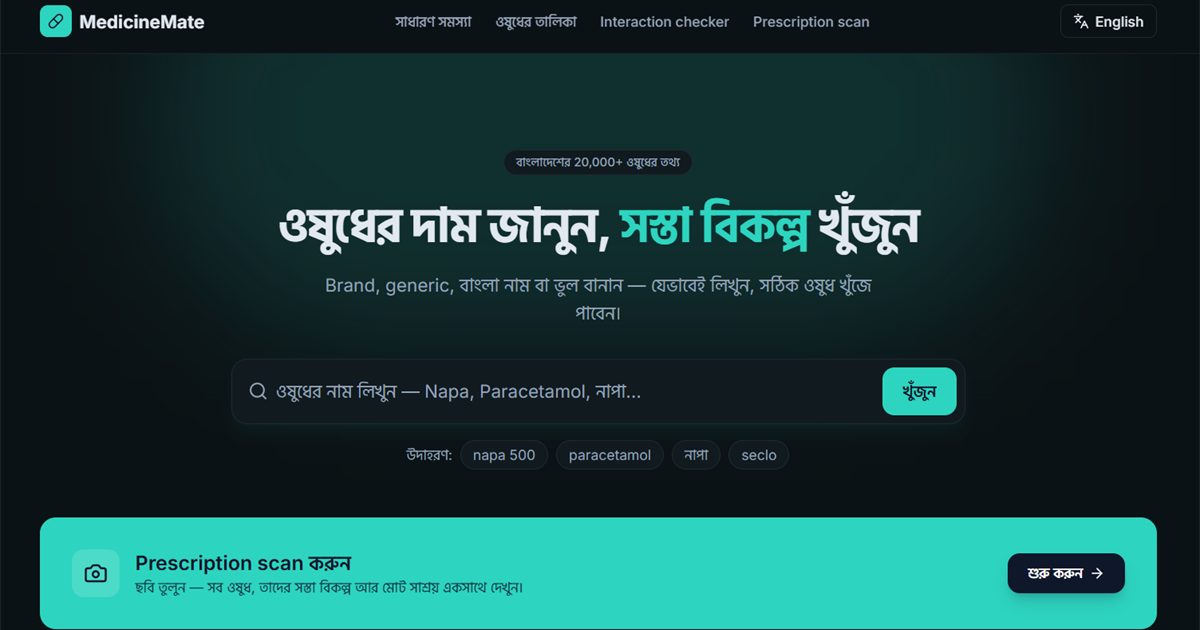
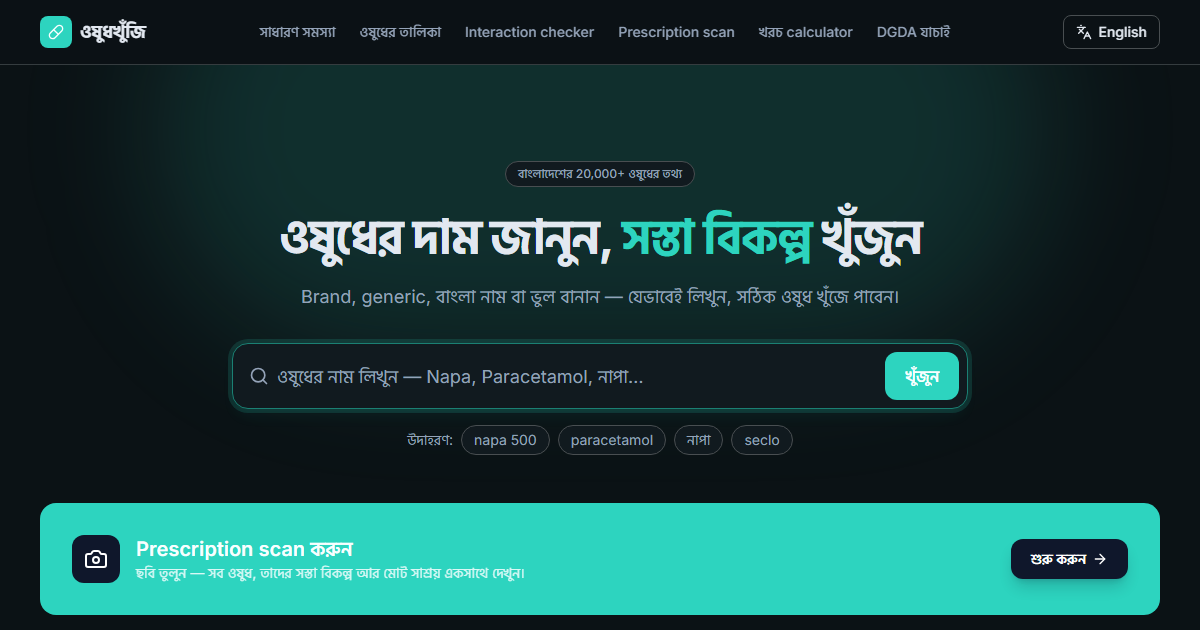
fix: refresh OG share image with new OshudKhuji brand
New 1200x630 screenshot of /bn (header shows ওষুধখুঁজি) and cache-bust
the image URL (?v=2) so LinkedIn/Facebook fetch the new preview.

diff --git a/lib/seo.ts b/lib/seo.ts
@@ -33,7 +33,8 @@ export function alternatesFor(lang: Locale, path = ""): NonNullable<Metadata["al
  * Share image for every page (WhatsApp, Facebook, X, LinkedIn): public/og-image.png, 1200x630, <300KB.
  * Source screenshot: public/ogImage.png (resized/cropped). Replace og-image.png to change it.
  */
-export const OG_IMAGE = { url: "/og-image.png", width: 1200, height: 630, alt: SITE_NAME, type: "image/png" };
+export const OG_IMAGE = { url: "/og-image.png?v=2", // bump ?v= when the image changes (LinkedIn/Facebook cache by URL)
+   width: 1200, height: 630, alt: SITE_NAME, type: "image/png" };
 
 /**
  * Google Search Console "HTML tag" verification code from env GOOGLE_SITE_VERIFICATION_KEY.

diff --git a/CLAUDE.md b/CLAUDE.md
@@ -29,7 +29,7 @@ Next.js 16.4 (App Router, Turbopack, `cacheComponents` ON), React 19, TS strict,
 - Header nav shows at `xl`; below that `components/layout/MobileMenu.tsx` (hamburger). Tailwind 4 has no button pointer cursor → restored globally in `globals.css`.
 - No login/account for now (user decision): header has no Login button, `/account` removed. Add back with Auth.js when needed.
 - Home `/[lang]`: hero search → `StatsBar` → scan CTA → `SavingsShowcase` (most expensive vs cheapest per-unit brand of the same generic+strength+form) → condition chips → `PopularGrid` → `InteractionTeaser` → `HowItWorks` → features → `Faq` → disclaimer. Sections in `components/home/HomeSections.tsx`; data `getHomeData()` (`server/services/home.service.ts`, "use cache" tags `medicines`/`home`; `FEATURED` slug list there — verify slugs exist when editing).
-- SEO (all public pages are server-rendered; check with Googlebot UA): every indexable page's `generateMetadata` returns `pageMeta(lang, "/path", {title, description})` from `lib/seo.ts` (canonical without query params, hreflang bn/en/x-default→bn, Open Graph + Twitter with `OG_IMAGE` = `public/og-image.png` 1200x630 <300KB, resized from the user's screenshot `public/ogImage.png`; also set as layout default). Layout sets only site defaults + `metadataBase` (never alternates). Personal/thin pages: `robots: noindex` (search, scan result). JSON-LD via `components/seo/JsonLd.tsx` (escapes `<`): home WebSite+SearchAction+Organization+FAQPage, medicine Drug+BreadcrumbList, condition MedicalWebPage+BreadcrumbList. Sitemaps are plain route handlers (NOT `app/sitemap.ts` — that reserves `/sitemap.xml` and conflicts): `app/sitemap.xml/route.ts` = index (submit this to Search Console) → `app/sitemap/[file]/route.ts` serves `/sitemap/0.xml` (static + conditions) and `/sitemap/1.xml` (ONLY top 100 medicines — user decision; rest stay indexable via internal links: `topMedicineSlugs(limit)` = top generics by `brandCount`, one each = most common strength+form, cheapest priced brand), XML with bn/en/x-default `xhtml:link` (builders in `server/services/sitemap.ts`, data `seo.service.ts`). `app/robots.ts` lists index + parts. New public page → add to `STATIC_PATHS` in `server/services/sitemap.ts`. Google verification: env `GOOGLE_SITE_VERIFICATION_KEY` (code or full tag) → layout `verification.google`. Icons: `app/icon.svg` (favicon), `app/favicon.ico` (16/32/48), `app/apple-icon.tsx` (180px), `app/manifest.ts`; extension-less metadata routes (e.g. `apple-icon`) must be excluded in `proxy.ts` matcher or they redirect to `/bn/...` and 404.
+- SEO (all public pages are server-rendered; check with Googlebot UA): every indexable page's `generateMetadata` returns `pageMeta(lang, "/path", {title, description})` from `lib/seo.ts` (canonical without query params, hreflang bn/en/x-default→bn, Open Graph + Twitter with `OG_IMAGE` = `public/og-image.png` 1200x630 <300KB, = headless-Edge screenshot of `/bn` at 1440x756 cropped x120..1320 (redo after header/brand changes, then bump `?v=` in `OG_IMAGE`); also set as layout default). Layout sets only site defaults + `metadataBase` (never alternates). Personal/thin pages: `robots: noindex` (search, scan result). JSON-LD via `components/seo/JsonLd.tsx` (escapes `<`): home WebSite+SearchAction+Organization+FAQPage, medicine Drug+BreadcrumbList, condition MedicalWebPage+BreadcrumbList. Sitemaps are plain route handlers (NOT `app/sitemap.ts` — that reserves `/sitemap.xml` and conflicts): `app/sitemap.xml/route.ts` = index (submit this to Search Console) → `app/sitemap/[file]/route.ts` serves `/sitemap/0.xml` (static + conditions) and `/sitemap/1.xml` (ONLY top 100 medicines — user decision; rest stay indexable via internal links: `topMedicineSlugs(limit)` = top generics by `brandCount`, one each = most common strength+form, cheapest priced brand), XML with bn/en/x-default `xhtml:link` (builders in `server/services/sitemap.ts`, data `seo.service.ts`). `app/robots.ts` lists index + parts. New public page → add to `STATIC_PATHS` in `server/services/sitemap.ts`. Google verification: env `GOOGLE_SITE_VERIFICATION_KEY` (code or full tag) → layout `verification.google`. Icons: `app/icon.svg` (favicon), `app/favicon.ico` (16/32/48), `app/apple-icon.tsx` (180px), `app/manifest.ts`; extension-less metadata routes (e.g. `apple-icon`) must be excluded in `proxy.ts` matcher or they redirect to `/bn/...` and 404.
 - Pages: `/[lang]/medicines` (`view=all|brand`, `q`, `type`, `sort`, `page` GET params → `medicineListQuery`; build links with `listHref()` from `lib/medicineListUrl.ts`). Filters auto-apply (`components/medicine/MedicineFilters.tsx`, client, inside the page's Suspense: selects on change, search debounced 400ms, `router.replace`; no submit button). `view=all` → `listMedicines` table (one row per strength/form). `view=brand` → `listBrands` (`"use cache"` tag `medicines`; step 1 aggregate brand+manufacturer summaries & paginate, step 2 load variants only for that page) → `components/medicine/BrandList.tsx` (native `<details>` expands strengths/forms; single-variant brands link directly). 50/page.
 - `models/` Mongoose models, all exported from `models/index.ts`
 - `server/services/` all DB logic; `server/actions/` Server Actions; `server/validators/` Zod
